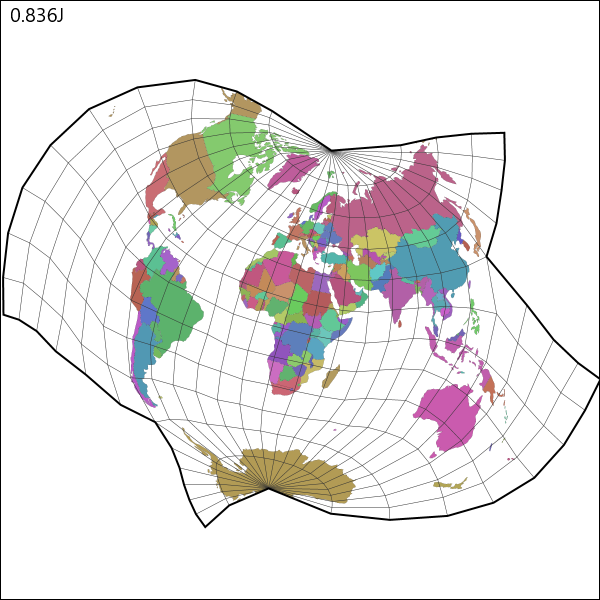
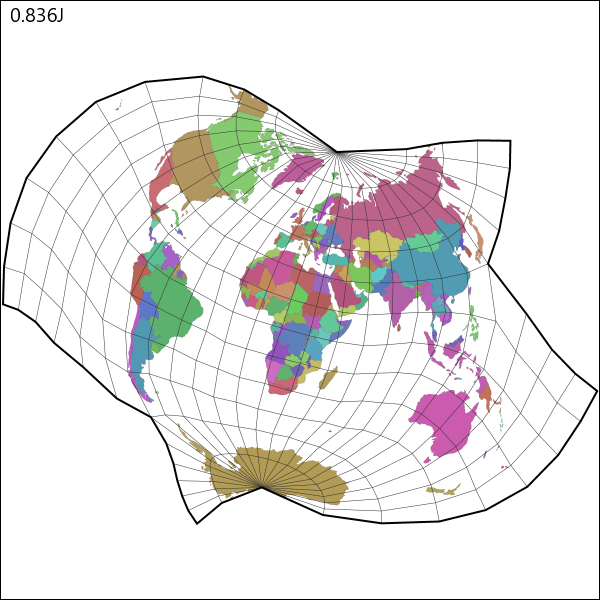
The spinning was giving me a headache
Now, instead of repeatedly flipping back and forth as it frantically tries to give you the optimal possible viewing angle, it leaves it with one orientation and waits until the end to rotate it.

Changed region(s): [[0.0, 0.12, 1.0, 0.9], [0.87, 0.78, 0.9, 0.81], [0.84, 0.75, 0.87, 0.78]]

diff --git a/src/model/Mesh.java b/src/model/Mesh.java
@@ -63,6 +63,7 @@ public class Mesh {
 	private List<Vertex> edge; // the start Vertex for iterating around the edge
 	private double elasticEnergy; // the potential energy currently stored
 	private double tearLength; // the length of the edge in radians
+	private boolean active; // are we done yet?
 	
 	private LinkedList<Matrix> sHist; // history of $s$ from the L-BFGS algorithm
 	private LinkedList<Matrix> yHist; // history of $y$ from the L-BFGS algorithm
@@ -82,6 +83,8 @@ public class Mesh {
 		
 		this.edge = traceEdge();
 		
+		this.active = true;
+		
 		this.elasticEnergy = computeTotEnergy(false);
 		this.sHist = new LinkedList<Matrix>();
 		this.yHist = new LinkedList<Matrix>();
@@ -97,6 +100,8 @@ public class Mesh {
 	 * @throws InterruptedException 
 	 */
 	public boolean update() {
+		if (!this.isActive())	throw new IllegalStateException(); // no more updating once we've finalised
+		
 		double Ui = computeTotEnergy(true);
 		
 		Matrix gk = computeEnergyGradient();
@@ -163,6 +168,8 @@ public class Mesh {
 	 * @return true if it successfully tore, false if it could find nothing to tear
 	 */
 	public boolean rupture() {
+		if (!this.isActive())	throw new IllegalStateException(); // no more updating once we've finalised
+		
 		if (tearLength >= maxTearLength)
 			return false;
 		
@@ -224,6 +231,14 @@ public class Mesh {
 		this.gkMinus1 = null;
 		
 		return true;
+	}
+	
+	
+	/**
+	 * Prevent any further changes to this Mesh, and let anyone who asks know that it is no longer active.
+	 */
+	public void finalise() {
+		this.active = false;
 	}
 	
 	
@@ -304,54 +319,78 @@ public class Mesh {
 	
 	
 	/**
-	 * Compute and return the smallest surrounding rectangle of this mesh.
-	 * @return { X centre, Y centre, rotation from horizontal, width, height }
+	 * Compute and return the parameters of the smallest surrounding rectangle of this mesh.
+	 * @param allowRotation - If true, the bounding box may be rotated to fit the Mesh better.
+	 * @return { unrotated X centre, unrotated Y centre, rotation from horizontal, width, height }
 	 */
-	public double[] getLinearTransform() {
-		LinkedList<Vertex> hull = new LinkedList<Vertex>();
-		for (Vertex v: getEdge()) { // do a Graham Scan to get the convex hull
-			hull.addFirst(v);
-			while (hull.size() >= 3 && hull.get(1).isLeftOf(hull.get(2), hull.get(0)))
-				hull.remove(1); // it's really easy, since the edge is already an approximation of the hull
-		}
-		
-		double minArea = Double.POSITIVE_INFINITY;
+	public double[] getBoundingBox(boolean allowRotation) {
+		double bestTheta = 0;
 		double[] bestRectangle = null;
-		for (int i = 0; i < hull.size(); i ++) { // now for each segment of the hull
-			double theta = Math.atan2(
-					hull.get(i).getY()-hull.get((i+1)%hull.size()).getY(),
-					hull.get(i).getX()-hull.get((i+1)%hull.size()).getX()); // take the angle
-			double aMin = Double.POSITIVE_INFINITY, aMax = Double.NEGATIVE_INFINITY;
-			double bMin = Double.POSITIVE_INFINITY, bMax = Double.NEGATIVE_INFINITY; // and fit a rectangle about it
-			for (Vertex v: hull) {
-				double a = v.getTransformedX(0, 0, theta), b = v.getTransformedY(0, 0, theta);
-				if (a < aMin)
-					aMin = a;
-				if (a > aMax)
-					aMax = a;
-				if (b < bMin)
-					bMin = b;
-				if (b > bMax)
-					bMax = b;
+		
+		if (allowRotation) { // if rotation is allowed...
+			LinkedList<Vertex> hull = new LinkedList<Vertex>(); // SIGH then we have to try this with all the different thetas
+			for (Vertex v: getEdge()) { // do a Graham Scan to get the convex hull
+				hull.addFirst(v);
+				while (hull.size() >= 3 && hull.get(1).isLeftOf(hull.get(2), hull.get(0)))
+					hull.remove(1); // it's really easy, since the edge is already an approximation of the hull
 			}
 			
-			if ((aMax - aMin)*(bMax - bMin) < minArea) { // finally, evaluate it on its area
-				minArea = (aMax - aMin)*(bMax - bMin); // if it passes our test,
-				double ca = (aMax+aMin)/2, cb = (bMax+bMin)/2; // find the centre
-				double cx = ca*Math.cos(theta) - cb*Math.sin(theta);
-				double cy = ca*Math.sin(theta) + cb*Math.cos(theta);
-				bestRectangle = new double[] {cx, cy, theta, aMax-aMin, bMax-bMin};
+			double minArea = Double.POSITIVE_INFINITY;
+			for (int i = 0; i < hull.size(); i ++) { // now for each segment of the hull
+				double theta = Math.atan2(
+						hull.get(i).getY()-hull.get((i+1)%hull.size()).getY(),
+						hull.get(i).getX()-hull.get((i+1)%hull.size()).getX()); // take the angle
+				double[] rectangle = getBoundingBox(theta); // and fit a rectangle about it
+				
+				if (rectangle[2]*rectangle[3] < minArea) { // finally, evaluate it on its area
+					bestTheta = theta;
+					bestRectangle = rectangle;
+					minArea = rectangle[2]*rectangle[3];
+				}
 			}
 		}
-		
-		if (bestRectangle[3] < bestRectangle[4]) { // rotate it if it's portrait
-			bestRectangle[2] += Math.PI/2;
-			double temp = bestRectangle[3];
-			bestRectangle[3] = bestRectangle[4];
-			bestRectangle[4] = temp;
+		else { // if not...
+			bestRectangle = getBoundingBox(0); // we can just call it zero and be done!
 		}
-		bestRectangle[2] = Math2.floorMod(Math.PI/2 + bestRectangle[2], Math.PI) - Math.PI/2; // or if it's upside down
-		return bestRectangle;
+		
+		double rotatedCX = bestRectangle[0], rotatedCY = bestRectangle[1], // put it in the format we want
+				width = bestRectangle[2], height = bestRectangle[3];
+		double correctedCX = rotatedCX*Math.cos(bestTheta) - rotatedCY*Math.sin(bestTheta);
+		double correctedCY = rotatedCX*Math.sin(bestTheta) + rotatedCY*Math.cos(bestTheta);
+		double[] finalRectangle = new double[] {correctedCX, correctedCY, bestTheta, width, height};
+		
+		if (finalRectangle[3] < finalRectangle[4]) { // rotate it if it's portrait
+			finalRectangle[2] += Math.PI/2;
+			double temp = finalRectangle[3];
+			finalRectangle[3] = finalRectangle[4];
+			finalRectangle[4] = temp;
+		}
+		finalRectangle[2] = Math2.floorMod(Math.PI/2 + finalRectangle[2], Math.PI) - Math.PI/2; // or if it's upside down
+		return finalRectangle;
+	}
+	
+	
+	/**
+	 * Get the parameters of the smallest rectangle that can fit this Mesh, given the
+	 * angle the rectangle's base must make with the horizontal.
+	 * @param rotation
+	 * @return { rotated center x, rotated center y, width, height }
+	 */
+	public double[] getBoundingBox(double rotation) {
+		double aMin = Double.POSITIVE_INFINITY, aMax = Double.NEGATIVE_INFINITY;
+		double bMin = Double.POSITIVE_INFINITY, bMax = Double.NEGATIVE_INFINITY; // and fit a rectangle about it
+		for (Vertex v: edge) {
+			double a = v.getTransformedX(0, 0, rotation), b = v.getTransformedY(0, 0, rotation);
+			if (a < aMin)
+				aMin = a;
+			if (a > aMax)
+				aMax = a;
+			if (b < bMin)
+				bMin = b;
+			if (b > bMax)
+				bMax = b;
+		}
+		return new double[] {(aMax+aMin)/2, (bMax+bMin)/2, aMax-aMin, bMax-bMin};
 	}
 	
 	
@@ -370,7 +409,7 @@ public class Mesh {
 	 * @param out - the print stream to which to print all this information.
 	 */
 	public void save(PrintStream out) { // TODO inverse
-		double[] transform = getLinearTransform(); // get the transform so you can apply it before you save
+		double[] transform = getBoundingBox(true); // get the transform so you can apply it before you save
 		out.printf("%d,%d,%d,%f,%f,\n", vertices.size(), cells.length, cells[0].length, transform[3], transform[4]); // the header
 		for (int i = 0; i < vertices.size(); i ++) // the vertex coordinates
 			out.printf("%f,%f,\n",
@@ -413,6 +452,11 @@ public class Mesh {
 	 */
 	public Iterable<Vertex> getEdge() {
 		return this.edge;
+	}
+	
+	
+	public boolean isActive() {
+		return this.active;
 	}
 	
 	

diff --git a/src/view/Main.java b/src/view/Main.java
@@ -136,6 +136,7 @@ public final class Main extends Application {
 					if (!mesh.rupture())	break; // then tear
 					System.out.println("Rupturing.");
 				} // TODO: fill notches
+				mesh.finalise(); // and now it's done
 				return null;
 			}
 			
@@ -144,6 +145,7 @@ public final class Main extends Application {
 				end = System.currentTimeMillis();
 				System.out.println(String.format("It finished in %.1fs.", (end-start)/1000.)); // report results
 				System.out.println(String.format("The final convergence is %.3fJ.", mesh.getTotEnergy()));
+				root.setTitle(String.format("Introducing the Danseiji %s projection!", numeral));
 				
 				try {
 					mesh.save(new PrintStream(new File(String.format("output/danseiji%s%d.csv", numeral, MESH_RESOLUTION)))); // save the mesh!
@@ -151,7 +153,6 @@ public final class Main extends Application {
 					e1.printStackTrace();
 				}
 				
-				root.setTitle(String.format("Introducing the Danseiji %s projection!", numeral));
 				new Timer().schedule(new TimerTask() { // after giving it a moment to settle,
 					public void run() {
 						Platform.runLater(viewWorker::cancel);
@@ -175,7 +176,7 @@ public final class Main extends Application {
 						});
 						
 					}
-				}, (long)(3*DECAY_TIME));
+				}, (long)(5*DECAY_TIME));
 			}
 			
 			protected void failed() {

diff --git a/src/view/Renderer.java b/src/view/Renderer.java
@@ -250,11 +250,11 @@ public class Renderer {
 	public void render() {
 		long now = System.currentTimeMillis();
 		double c1 = 1 - Math.exp((lastRender-now)/decayTime); // compute the time scaling coefficient
-		double[] meshBox = mesh.getLinearTransform();
+		double[] meshBox = mesh.getBoundingBox(!mesh.isActive());
 
 		this.viewX = (1-c1)*viewX + c1*meshBox[0]; // figure out the current camera coordinates
 		this.viewY = (1-c1)*viewY + c1*meshBox[1];
-		this.viewTh = (1-c1/2)*viewTh + c1/2*meshBox[2]; // TODO: don't rotate until the end
+		this.viewTh = (1-c1)*viewTh + c1*meshBox[2];
 		this.viewW = (1-c1)*viewW + c1*Math.max(meshBox[3], meshBox[4])*1.01;
 		
 		for (Geometry geom: geoShapes.keySet()) {
